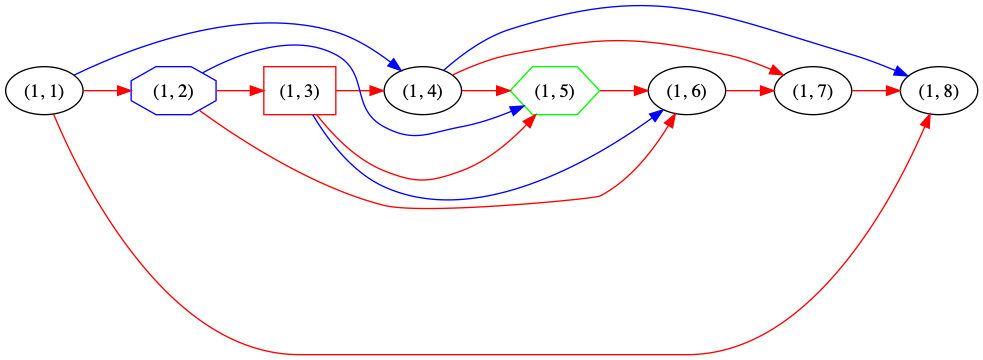
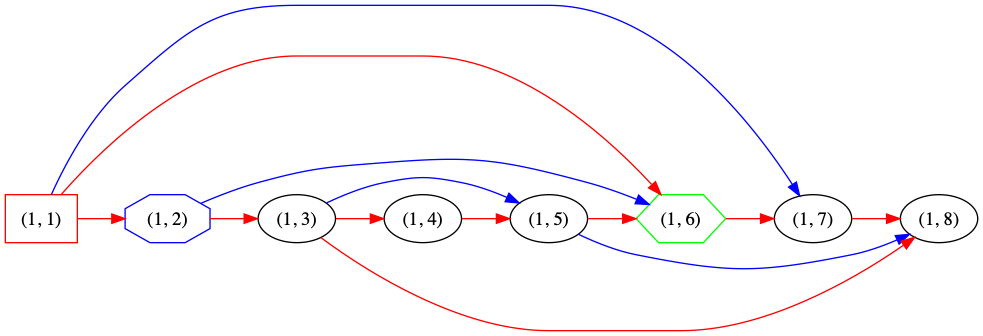
Publishing to gh-pages (publish.sh)

diff --git a/docs/zigzag-commitments/index.html b/docs/zigzag-commitments/index.html
@@ -377,8 +377,8 @@ layer&rsquo;s label is \(e_{\bar{i}}^{(2)}\).</p>
 <th><code>~~~~</code></th>
 <th><code>~~~~</code></th>
 <th><code>~~~~</code></th>
-<th>(Odd) Challenge</th>
 <th><code>~~~~</code></th>
+<th>(Odd) Challenge</th>
 <th><code>~~~~</code></th>
 <th><code>~~~~</code></th>
 </tr>
@@ -403,7 +403,7 @@ layer&rsquo;s label is \(e_{\bar{i}}^{(2)}\).</p>
 
 <p>Generate Merkle root for data leaves.</p>
 
-<p>\(Comm_D = VC(D_1 || D_2 || … D_N)\), where \(D_i = e_i^{(0)}\).</p>
+<p>\(Comm_D = VC(D_1 || D_2 || … || D_N)\), where \(D_i = e_i^{(0)}\).</p>
 
 <p>This example: \(Comm_D = VC(e_1^{(0)}, e_2^{(0)}, e_3^{(0)}, e_4^{(0)}, e_5^{(0)}, e_6^{(0)}, e_7^{(0)}, e_8^{(0)})\).</p></li>
 
@@ -420,12 +420,12 @@ layer&rsquo;s label is \(e_{\bar{i}}^{(2)}\).</p>
 <table>
 <thead>
 <tr>
-<th>Even Expander Parents</th>
-<th>Odd Expander Parents</th>
 <th>DRG Parents</th>
+<th>Odd Expander Parents</th>
+<th><code>~~~~</code></th>
+<th>Even Expander Parents</th>
 <th><code>~~~~</code></th>
 <th>Challenges</th>
-<th><code>~~~~</code></th>
 <th><code>~~~~</code></th>
 <th><code>~~~~</code></th>
 </tr>
@@ -433,10 +433,10 @@ layer&rsquo;s label is \(e_{\bar{i}}^{(2)}\).</p>
 
 <tbody>
 <tr>
-<td>\((1, 1)^{*}\)</td>
+<td>\((1, 1)\)</td>
 <td>\((1, 2)\)</td>
 <td>\((1, 3)\)</td>
-<td>\((1, 4)\)</td>
+<td>\((1, 4)^{*}\)</td>
 <td>\((1, 5)\)</td>
 <td>\((1, 6)\)</td>
 <td>\((1, 7)\)</td>
@@ -455,10 +455,10 @@ layer&rsquo;s label is \(e_{\bar{i}}^{(2)}\).</p>
 </tr>
 
 <tr>
-<td>\((3, 1)^{*}\)</td>
+<td>\((3, 1)\)</td>
 <td>\((3, 2)\)</td>
 <td>\((3, 3)\)</td>
-<td>\((3, 4)\)</td>
+<td>\((3, 4)^{*}\)</td>
 <td>\((3, 5)\)</td>
 <td>\((3, 6)\)</td>
 <td>\((3, 7)\)</td>
@@ -477,10 +477,10 @@ layer&rsquo;s label is \(e_{\bar{i}}^{(2)}\).</p>
 </tr>
 
 <tr>
-<td>\((5, 1)^{*}\)</td>
+<td>\((5, 1)\)</td>
 <td>\((5, 2)\)</td>
 <td>\((5, 3)\)</td>
-<td>\((5, 4)\)</td>
+<td>\((5, 4)^{*}\)</td>
 <td>\((5, 5)\)</td>
 <td>\((5, 6)\)</td>
 <td>\((5, 7)\)</td>
@@ -500,12 +500,12 @@ layer&rsquo;s label is \(e_{\bar{i}}^{(2)}\).</p>
 <table>
 <thead>
 <tr>
-<th>Even Expander Parents</th>
-<th>Odd Expander Parents</th>
 <th>DRG Parents</th>
+<th>Odd Expander Parents</th>
+<th><code>~~~~</code></th>
+<th>Even Expander Parents</th>
 <th><code>~~~~</code></th>
 <th>Challenges</th>
-<th><code>~~~~</code></th>
 <th><code>~~~~</code></th>
 <th><code>~~~~</code></th>
 </tr>
@@ -513,10 +513,10 @@ layer&rsquo;s label is \(e_{\bar{i}}^{(2)}\).</p>
 
 <tbody>
 <tr>
-<td>\((1, 1)^{*}\)</td>
+<td>\((1, 1)\)</td>
 <td>\((1, 2)\)</td>
 <td>\((1, 3)\)</td>
-<td>\((1, 4)\)</td>
+<td>\((1, 4)^{*}\)</td>
 <td>\((1, 5)\)</td>
 <td>\((1, 6)\)</td>
 <td>\((1, 7)\)</td>
@@ -524,10 +524,10 @@ layer&rsquo;s label is \(e_{\bar{i}}^{(2)}\).</p>
 </tr>
 
 <tr>
-<td>\((3, 1)^{*}\)</td>
+<td>\((3, 1)\)</td>
 <td>\((3, 2)\)</td>
 <td>\((3, 3)\)</td>
-<td>\((3, 4)\)</td>
+<td>\((3, 4)^{*}\)</td>
 <td>\((3, 5)\)</td>
 <td>\((3, 6)\)</td>
 <td>\((3, 7)\)</td>
@@ -535,10 +535,10 @@ layer&rsquo;s label is \(e_{\bar{i}}^{(2)}\).</p>
 </tr>
 
 <tr>
-<td>\((5, 1)^{*}\)</td>
+<td>\((5, 1)\)</td>
 <td>\((5, 2)\)</td>
 <td>\((5, 3)\)</td>
-<td>\((5, 4)\)</td>
+<td>\((5, 4)^{*}\)</td>
 <td>\((5, 5)\)</td>
 <td>\((5, 6)\)</td>
 <td>\((5, 7)\)</td>
@@ -560,12 +560,12 @@ layer&rsquo;s label is \(e_{\bar{i}}^{(2)}\).</p>
 <table>
 <thead>
 <tr>
-<th>Even Expander Parents</th>
-<th>Odd Expander Parents</th>
 <th>DRG Parents</th>
+<th>Odd Expander Parents</th>
+<th><code>~~~~</code></th>
+<th>Even Expander Parents</th>
 <th><code>~~~~</code></th>
 <th>Challenges</th>
-<th><code>~~~~</code></th>
 <th><code>~~~~</code></th>
 <th><code>~~~~</code></th>
 </tr>
@@ -651,12 +651,12 @@ Reveal the \(O_i\) (\(0\) hash proofs).</p>
 <tr>
 <th><code>~~~~</code></th>
 <th><code>~~~~</code></th>
-<th><code>~~~~</code></th>
 <th>Even Challenge</th>
 <th><code>~~~~</code></th>
-<th>Even DRG Parent</th>
-<th><code>~~~~</code></th>
 <th>Even Expander Parent</th>
+<th><code>~~~~</code></th>
+<th><code>~~~~</code></th>
+<th>Even DRG Parent</th>
 </tr>
 </thead>
 
@@ -763,7 +763,7 @@ and \(E_{p_{odd}}\).</p></li>
   
   <div>
     
-    <a href="https://github.com/filecoin-project/specs/commit/060101c88ede88e3c3e2763139335d7fed466a9e" title='Last modified Aug 29, 2019 by porcuquine' target="_blank" rel="noopener">
+    <a href="https://github.com/filecoin-project/specs/commit/3e4c80091a53863be4c9b3de4ade0262662c5b16" title='Last modified Aug 29, 2019 by porcuquine' target="_blank" rel="noopener">
       <img src="../../svg/code-merge.svg" alt="Changed" /> Aug 29, 2019
     </a>
   </div>
